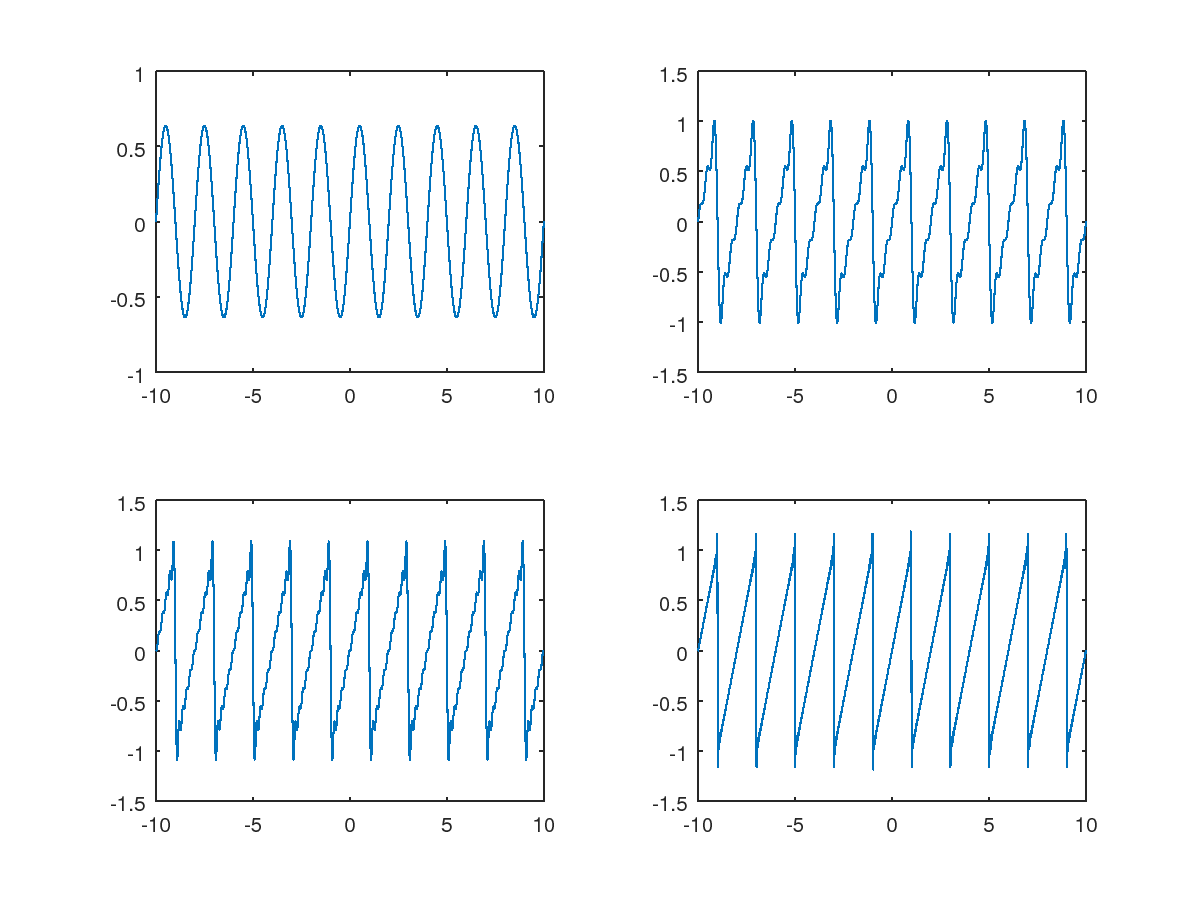
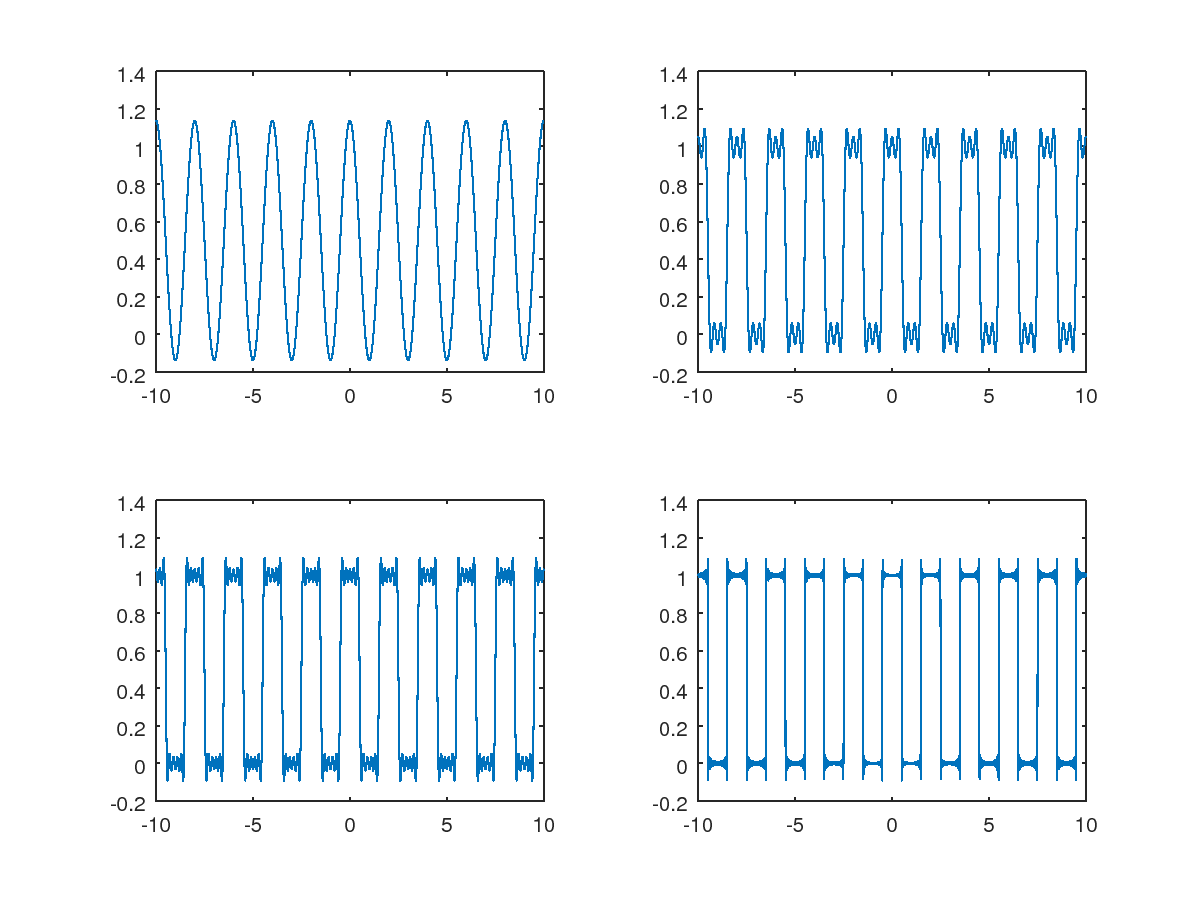
added file

diff --git a/Fourier_Series/fourier_series.m b/Fourier_Series/fourier_series.m
@@ -8,13 +8,14 @@ n=2;
 a=[];
 b=[];
 #plot(a);
-fun_0 =@(x) 1/T*x;
+
+fun_0 =@(x) 1/T*(x-x+1);
 a0=quad(fun_0,-1,1);
 
 max_freq=1000;
 for n=1:100;
-  fun_1 =@(x) 1/T.*x .*sin(n.*x.*omega);
-  fun_2 =@(x) 1/T.*x .*cos(n.*x.*omega);
+  fun_1 =@(x) 1/T.*(x-x+1) .*sin(n.*x.*omega);
+  fun_2 =@(x) 1/T.*(x) .*cos(n.*x.*omega);
   a_k = quadgk(fun_1,-T,T);
   b_k = quadgk(fun_2,-T,T);
   
